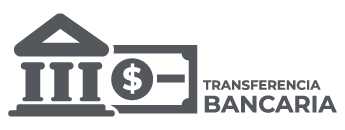
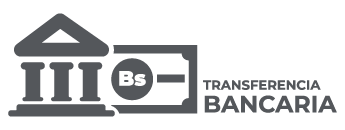
fix error
- total pending
- change name to ctlleva
- change image
- add icon appstore email
- change regex phone

Changed region(s): [[0.3478, 0.4923, 0.4348, 0.7385]]

diff --git a/public/js/form.js b/public/js/form.js
@@ -263,7 +263,7 @@ $(document).ready(function(){
                 $("#showMobilePayment").css({"display":"block"});
             else 
                 $("#showMobilePayment").css({"display":"none"});
-            
+                        
             $(".showDataTransfers").css({"display":"none"});
             $(".showDataMobiles").css({"display":"none"});
             $(".datepicker").attr('disabled', true);
@@ -306,6 +306,10 @@ $(document).ready(function(){
             }
             
             $('.submit').show();
+            
+            if($(this).find('#paymentDescription').val() == "EFECTIVO" || $(this).find('#paymentDescription').val() == "PAYPAL" || $(this).find('#paymentDescription').val() == "BITCOIN"){
+                window.scrollTo(0,document.body.scrollHeight);
+            }
         }
     });
 

diff --git a/resources/views/admin/balance.blade.php b/resources/views/admin/balance.blade.php
@@ -93,7 +93,7 @@
                         <td><input type="checkbox" class="check-Payment" data-id="{{ $deposit->id }}" data-status="{{$deposit->status}}"></td>
                         <td>{{ $deposit->id }}</td>
                         <td>{{ $deposit->name }}</td>
-                        <td>@if($deposit->coin == 0 )  $ @else Bs @endif {{ $deposit->total }}</td>
+                        <td>@if($deposit->coin == 0 )  $ @else Bs @endif {{ number_format((floatval($deposit->total)), 2, ',', '.') }}</td>
                         <td>
                             @if($deposit->status == 1)
                                 <div class="pending">Pendiente</div>
@@ -104,11 +104,13 @@
                             @endif
                         </td>
                         <td>
-                            <botton class="pay btn btn-bottom" onclick="showDataPayment({{$deposit->id}}, true)" rel="tooltip" data-toggle="tooltip" data-placement="left" title="Pagar Comerciante"><i class="material-icons">payment</i></botton>
-                            <a class="btn btn-bottom" href="{{route('admin.transactionsSearchId', ['id' => $deposit->commerce_id])}}" rel="tooltip" data-toggle="tooltip" data-placement="left" title="Ver Transacciones"><i class="material-icons">description</i></a>
-                            @if($selectCoin == 1)
-                            <a class="btn btn-bottom" onclick="downloadTxt({{$deposit->id}}, true)" rel="tooltip" data-toggle="tooltip" data-placement="left" title="Generar reporte de pago"><i class="material-icons">get_app</i></a>
+                            @if($deposit->status <3)
+                                <botton class="pay btn btn-bottom" onclick="showDataPayment({{$deposit->id}}, true)" rel="tooltip" data-toggle="tooltip" data-placement="left" title="Pagar Comerciante"><i class="material-icons">payment</i></botton>
                             @endif
+                            <a class="btn btn-bottom" href="{{route('admin.transactionsSearchId', ['id' => $deposit->commerce_id])}}" rel="tooltip" data-toggle="tooltip" data-placement="left" title="Ver Transacciones"><i class="material-icons">description</i></a>
+                            <!-- @if($selectCoin == 1)
+                            <a class="btn btn-bottom" onclick="downloadTxt({{$deposit->id}}, true)" rel="tooltip" data-toggle="tooltip" data-placement="left" title="Generar reporte de pago"><i class="material-icons">get_app</i></a>
+                            @endif -->
                         </td>
                     </tr>
                     @endforeach
@@ -123,9 +125,9 @@
                 <div class="text-left" style="margin-left:40px;">
                     <strong class="addMarginRight">Acciones:</strong>
                     <botton class="pay btn btn-bottom" onclick="showDataPayment(0, false)" rel="tooltip" data-toggle="tooltip" data-placement="left" title="Pagar comerciantes seleccionados"><i class="material-icons">payment</i></botton>
-                    @if($selectCoin == 1)
+                    <!-- @if($selectCoin == 1)
                     <a class="btn btn-bottom" onclick="downloadTxt(0, false)" rel="tooltip" data-toggle="tooltip" data-placement="left" title="Generar reporte de pago seleccionados"><i class="material-icons">get_app</i></a>
-                    @endif
+                    @endif -->
                     <label class="content-select">
                         <select class="addMargin" name="changeStatus" id="changeStatus">
                             <option value="0" disabled selected>Cambiar Estado</option>
@@ -205,11 +207,16 @@
 
         function downloadTxt(id, status)
         {
-            var selectID = [];
+            var error = false;
+            selectID = [];
             if(!status){
                 $("input:checked.check-Payment").each(function () {
                     var id = $(this).data("id");
-                    selectID.push(id);
+                    var statusPayment = $(this).data("status");
+                    if(statusPayment == 3)
+                        error = true;
+                    else
+                        selectID.push(id)
                 });
             }else{
                 selectID.push(id);
@@ -233,21 +240,30 @@
                 }).fail(function(result){
                     alertify.error('Sin Conexión, intentalo de nuevo mas tardes!');
                 }); 
+            else if(error)
+                alertify.error('Por favor verifique los despositos seleccionado');
             else 
                 alertify.error('Debe seleccionar al menos un deposito');
         }
 
         function showDataPayment(id, status)
         {
-            var selectID = [];
+            var error = false;
+            selectID = [];
             if(!status){
                 $("input:checked.check-Payment").each(function () {
                     var id = $(this).data("id");
-                    selectID.push(id);
+                    var statusPayment = $(this).data("status");
+                    if(statusPayment == 3)
+                        error = true;
+                    else
+                        selectID.push(id)
                 });
             }else{
                 selectID.push(id);
             }
+
+            console.log(selectID);
 
             if(selectID.length >0)
                 $.ajax({
@@ -266,7 +282,9 @@
                     alertify.error('Sin Conexión, intentalo de nuevo mas tardes!');
                     $('#payModal').modal('hide'); 
                     $('#showPayment').html();
-                }); 
+                });
+            else if(error)
+                alertify.error('Por favor verifique los despositos seleccionado');
             else
                 alertify.error('Debe seleccionar depositos');
         }

diff --git a/resources/views/admin/transactions.blade.php b/resources/views/admin/transactions.blade.php
@@ -136,7 +136,7 @@
                             @if($idCommerce == 0)<td>{{ $transaction->name }}</td>@endif
                             <td>{{ $transaction->nameClient}}</td>
                             <td>{{ $transaction->codeUrl }}</td>
-                            <td>@if($transaction->coin == 0) $ @else Bs @endif {{ $transaction->total}}</td>
+                            <td>@if($transaction->coin == 0) $ @else Bs @endif {{ number_format((floatval($transaction->total)), 2, ',', '.') }}</td>
                             <td> {{$transaction->nameCompanyPayments}}</td>
                             <td>
                                 @if($transaction->statusPayment == 0)
@@ -184,7 +184,7 @@
     </div>
 
     <!--- Modal products -->
-    <div class="modal fade" id="transactionsModal" tabindex="-1" role="dialog" aria-labelledby="myModalLabel" aria-hidden="true">
+    <div class="modal fade" id="showProductsOrTransactionsModal" tabindex="-1" role="dialog" aria-labelledby="myModalLabel" aria-hidden="true">
         <div class="modal-dialog">
             <div class="modal-content">
                 <div class="modal-header">
@@ -214,11 +214,11 @@
                 data: {"id" : id},
                 type: "GET",
             }).done(function(data){
-                $('#productsModal').modal('show'); 
+                $('#showProductsOrTransactionsModal').modal('show'); 
                 $('#showTransactions').html(data.html);
             }).fail(function(result){
                 alertify.error('Sin Conexión, intentalo de nuevo mas tardes!');
-                $('#productsModal').modal('hide'); 
+                $('#showProductsOrTransactionsModal').modal('hide'); 
                 $('#showTransactions').html();
             });
         }
@@ -230,11 +230,11 @@
                 data: {"id" : id},
                 type: "GET",
             }).done(function(data){
-                $('#transactionsModal').modal('show'); 
+                $('#showProductsOrTransactionsModal').modal('show'); 
                 $('#showTransactions').html(data.html);
             }).fail(function(result){
                 alertify.error('Sin Conexión, intentalo de nuevo mas tardes!');
-                $('#transactionsModal').modal('hide'); 
+                $('#showProductsOrTransactionsModal').modal('hide'); 
                 $('#showTransactions').html();
             });
         }
@@ -247,11 +247,11 @@
                 type: "GET",
             }).done(function(data){
                 console.log(data.html);
-                $('#transactionsModal').modal('show'); 
+                $('#showProductsOrTransactionsModal').modal('show'); 
                 $('#showTransactions').html(data.html);
             }).fail(function(result){
                 alertify.error('Sin Conexión, intentalo de nuevo mas tardes!');
-                $('#transactionsModal').modal('hide'); 
+                $('#showProductsOrTransactionsModal').modal('hide'); 
                 $('#showTransactions').html();
             });
         }
@@ -274,8 +274,9 @@
                     selectID.push(id);
                 });
 
+                $("#changeStatus option[value='-1']").prop('selected', true);
+
                 if(selectID.length >0 && !error){
-                    $("#changeStatus option[value='-1']").attr("selected",true);
                     $( ".loader" ).fadeIn("slow"); 
                     $.ajax({
                         url: "{{route('admin.changeStatusPayment')}}", 
@@ -283,7 +284,6 @@
                         type: "POST",
                     }).done(function(data){
                         $( ".loader" ).fadeOut("slow"); 
-                        $("#changeStatus option[value='-1']").attr("selected",true);
                         if(data.status == 201)
                             alertify.success('Guardado correctamente');
                         
@@ -292,16 +292,13 @@
                         }, 2000);
                     }).fail(function(result){
                         $( ".loader" ).fadeOut("slow"); 
-                        $("#changeStatus option[value='-1']").attr("selected",true);
                         alertify.error('Sin Conexión, intentalo de nuevo mas tardes!');
                     }); 
                 }else if (selectID.length == 0 && !error){
                     alertify.error('Debe seleccionar al menos un transaccion');
-                    $("#changeStatus option[value='-1']").attr("selected",true);
                 }
                 else{
                     alertify.error('Debe seleccionar transacciones con estado correctamente');
-                    $("#changeStatus option[value='-1']").attr("selected",true);
                 }
             }
             

diff --git a/resources/views/admin/modal/dataPayment.blade.php b/resources/views/admin/modal/dataPayment.blade.php
@@ -12,7 +12,6 @@
                     <label><strong>Datos del Bancaria:</strong></label>
                     <div class="dataPay">
                         @if($deposit->coin == 0)
-
                             <label><strong>País: </strong>{{$bank->country}}</label> <br> 
                             <label><strong>Nombre de la cuenta: </strong>{{$bank->accountName}}</label> <br> 
                             <label><strong>Número de la cuenta: </strong>{{$bank->accountNumber}}</label> <br> 
@@ -23,7 +22,6 @@
                             <label><strong>Dirección: </strong>{{$bank->address}}</label> <br> 
                             <label><strong>Tipo de Cuenta: </strong>{{$bank->accountType}}</label> <br> 
                         @else
-                            
                             <label><strong>País: </strong>{{$bank->country}}</label> <br> 
                             <label><strong>NUmero de cédula: </strong>{{$bank->idCard}}</label> <br> 
                             <label><strong>Nombre de la cuenta: </strong>{{$bank->accountName}}</label> <br> 
@@ -43,7 +41,7 @@
                                 <label for="refPay" classs="col-form-label">Nº Referencia del Pago:</label>
                             </div>
                             <div class="col-auto">
-                                <input type="tel" name="numRef"  id="numRef" class="form-control" placeholder="123456789" />
+                                <input type="text" name="numRef"  id="numRef" class="form-control" placeholder="123456789" minlength="4"/>
                             </div>
                         </div>
                         @if($statusID)
@@ -84,8 +82,9 @@
             $('#submit').on('click', function() {
                 var status = true;
                 var numRef = $('#numRef').val();
+                console.log(selectID);
 
-               if(numRef.length <11){
+               if(numRef.length <4){
                     status = false;
                     alertify.error('Debe ingresar el numero de referencia correctamente');
                 }

diff --git a/resources/views/multi-step-form.blade.php b/resources/views/multi-step-form.blade.php
@@ -163,7 +163,7 @@
                                     <label class="form" for="name">NOMBRE:</label>
                                     <input type="text" name="name" id="name" class="form-control formDataShipping" data-parsley-minlength="3" placeholder="Joe Doe" data-parsñey-pattern="/^[a-zA-ZàáâäãåąčćęèéêëėįìíîïłńòóôöõøùúûüųūÿýżźñçčšžÀÁÂÄÃÅĄĆČĖĘÈÉÊËÌÍÎÏĮŁŃÒÓÔÖÕØÙÚÛÜŲŪŸÝŻŹÑßÇŒÆČŠŽ∂ð ,.'-]+$/u" required />
                                     <label class="form" for="number">NUMERO DE CELULAR:</label>
-                                    <input type="text" oninput="this.value=this.value.replace(/[^0-9]/g,'');" name="number" id="number" class="form-control formDataShipping" placeholder="04125555555" size="11" maxlength="11" data-parsley-maxlength="11" data-parsley-pattern="^(?:(\+)58|0)(?:2(?:12|4[0-9]|5[1-9]|6[0-9]|7[0-8]|8[1-35-8]|9[1-5]|3[45789])|4(?:1[246]|2[46]))\d{7}$" required autocomplete="off" />
+                                    <input type="text" oninput="this.value=this.value.replace(/[^0-9]/g,'');" name="number" id="number" class="form-control formDataShipping" placeholder="04125555555" size="11" maxlength="11" data-parsley-maxlength="11" data-parsley-pattern="^(0414|0424|0412|0416|0426)[0-9]{7}$" required autocomplete="off" />
                                     <br>
                                     <div class="row">
                                         <div class="col-md-6 col-12">
@@ -855,8 +855,8 @@
 
         function addDateTime(){
             var date = new Date();
-            date.setDate(date.getDay());
-
+            date.setDate(date.getDate() - 1);
+            
             $('.datepicker').datepicker({
                 orientation: "bottom auto",
                 startDate: date,

diff --git a/app/Http/Controllers/AdminController.php b/app/Http/Controllers/AdminController.php
@@ -83,12 +83,12 @@ class AdminController extends Controller
             if($paid->coin == 0)
                 if($paid->statusPayment == 2)
                     $totalShoppingUSD += floatval($paid->total);
-                else
+                else if($paid->statusPayment == 1)
                     $totalPendingUSD += floatval($paid->total); 
             else
                 if($paid->statusPayment == 2)
                     $totalShoppingBS += floatval($paid->total);
-                else
+                else if($paid->statusPayment == 1)
                     $totalPendingBS += floatval($paid->total); 
 
         }
@@ -108,6 +108,7 @@ class AdminController extends Controller
             $totalShop = 0;
             $totalShopUSD = 0;
             $totalShopBS = 0;
+
             if(Auth::guard('admin')->check())
                 $paidAll = Paid::where("date", 'like', "%".Carbon::now()->format($years.'-'.$month.'-'.Carbon::now()->subDay(6-$i)->format('d'))."%")
                                 ->where("statusPayment",2)->get();

diff --git a/resources/views/auth/depositHistory.blade.php b/resources/views/auth/depositHistory.blade.php
@@ -88,11 +88,11 @@
                         <tr>
                             <td>{{$history->date }}</td>
                             @if($history->status==0)
-                                <td class="received">{{$history->total}}</td>
+                                <td class="received">{{number_format((floatval($history->total)), 2, ',', '.')}}</td>
                                 <td class="received">RECIBIDO</td>
                                 <td class="depositNumRef">Transacciones</td>
                             @else 
-                                <td class="deposit">{{$history->total}}</td>
+                                <td class="deposit">{{number_format((floatval($history->total)), 2, ',', '.')}}</td>
                                 <td class="deposit">DEPOSITO</td>
                                 <td class="depositNumRef">{{$history->numRef}}</td>
                             @endif

diff --git a/resources/views/auth/transactions.blade.php b/resources/views/auth/transactions.blade.php
@@ -113,7 +113,7 @@
                             @if($idCommerce == 0)<td>{{ $transaction->name }}</td>@endif
                             <td>{{ $transaction->nameClient}}</td>
                             <td>{{ $transaction->codeUrl}}</td>
-                            <td>@if($transaction->coin == 0) $ @else Bs @endif {{ $transaction->total}}</td>
+                            <td>@if($transaction->coin == 0) $ @else Bs @endif {{ number_format((floatval($transaction->total)), 2, ',', '.') }}</td>
                             <td>@if($transaction->nameCompanyPayments != "Tienda Fisica") Tienda Web @else Tienda Fisica @endif</td>
                             <td>
                                 @if($transaction->statusPayment == 0)

diff --git a/resources/views/email/welcome.blade.php b/resources/views/email/welcome.blade.php
@@ -56,7 +56,7 @@
                     <br>
 
                     <p style="color:#59595e; margin: 0 0 7px;">
-                        En CTpaga estamos encantados de que haya creado su cuenta.
+                        En Ctpaga estamos encantados de que haya creado su cuenta.
                         <br>
                         <br>
                         Su nombre de usuario es <strong><a href="">{{$user->email}}</a></strong>

diff --git a/resources/views/email/header.blade.php b/resources/views/email/header.blade.php
@@ -1,5 +1,5 @@
 <td style="background-color: #fff; text-align: left; padding: 0;">
     <a href="">
-        <img src="{{ asset('images/email/LOGO.png') }}" alt="" style="padding: 10px; display: block; margin: 0 auto; width: 50%; max-width: 200px;">
+        <img src="{{ asset('images/email/logo.png') }}" alt="" style="padding: 10px; display: block; margin: 0 auto; width: 50%; max-width: 200px;">
     </a>
 </td>

diff --git a/app/Notifications/NotificationDelivery.php b/app/Notifications/NotificationDelivery.php
@@ -44,7 +44,7 @@ class NotificationDelivery extends Notification
         $msg = 'Estás recibiendo este correo electrónico porque '.$this->message;
 
         return (new MailMessage)  
-            ->subject('Delivery Ctpaga Aviso')
+            ->subject('Ctlleva Aviso')
             ->markdown(
                 'email.notificationDelivery', ['message' => $msg, 'delivery' => $this->delivery]
             );

diff --git a/app/Notifications/NewDelivery.php b/app/Notifications/NewDelivery.php
@@ -40,7 +40,7 @@ class NewDelivery extends Notification
     public function toMail($notifiable)
     {
         return (new MailMessage)
-        ->subject('Bienvenido a Delivery Ctpaga')
+        ->subject('Bienvenido a Ctlleva')
         ->markdown(
             'email.welcomeDelivery', ['delivery' => $this->delivery]
         );
